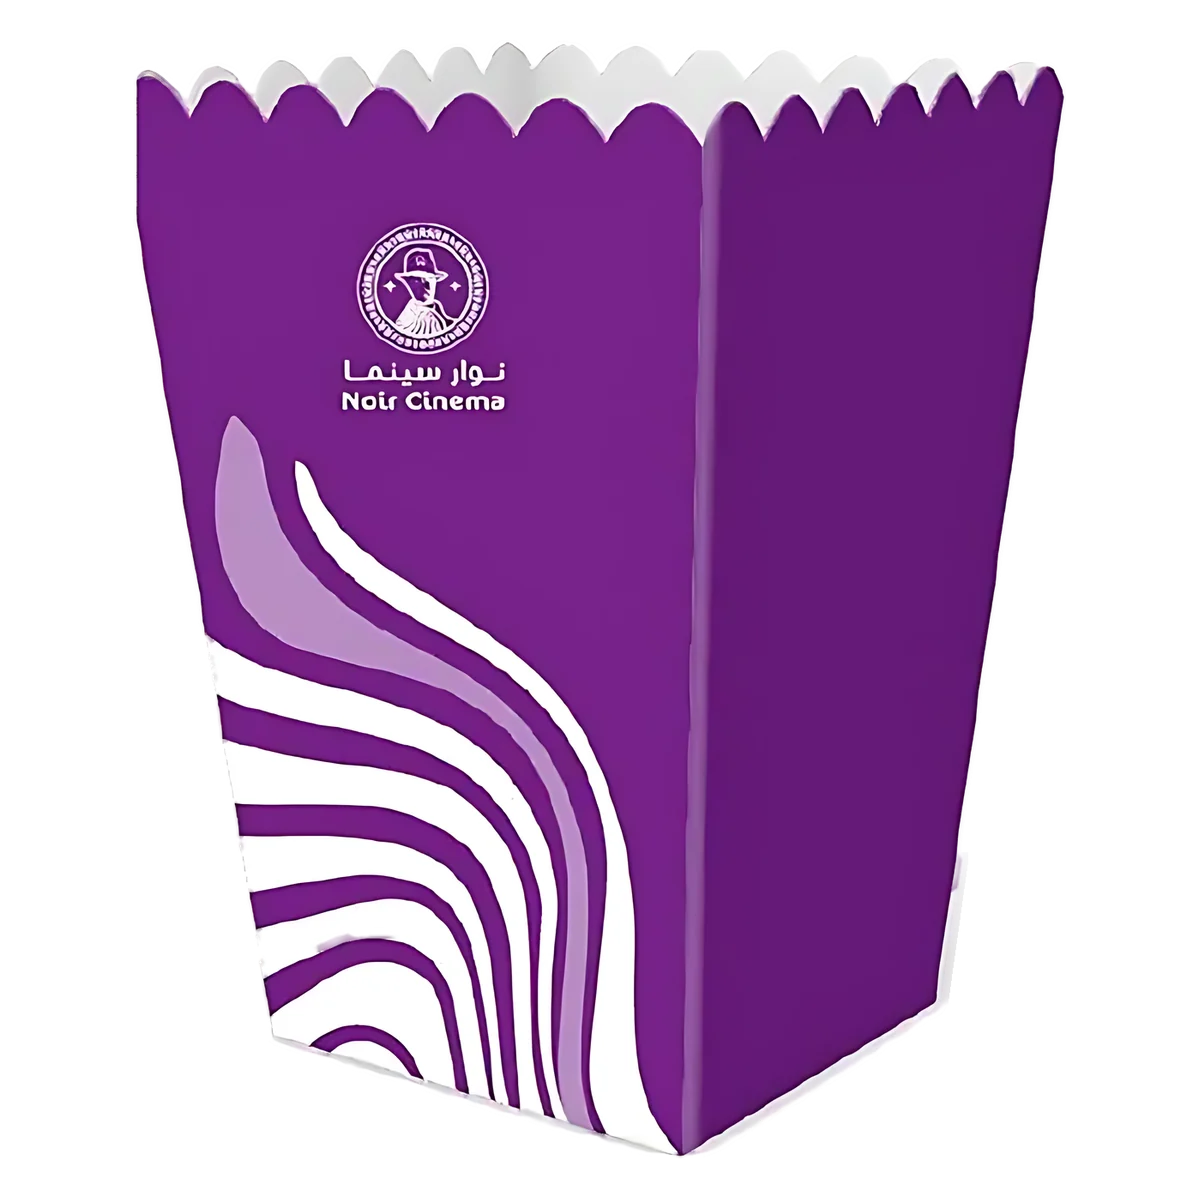
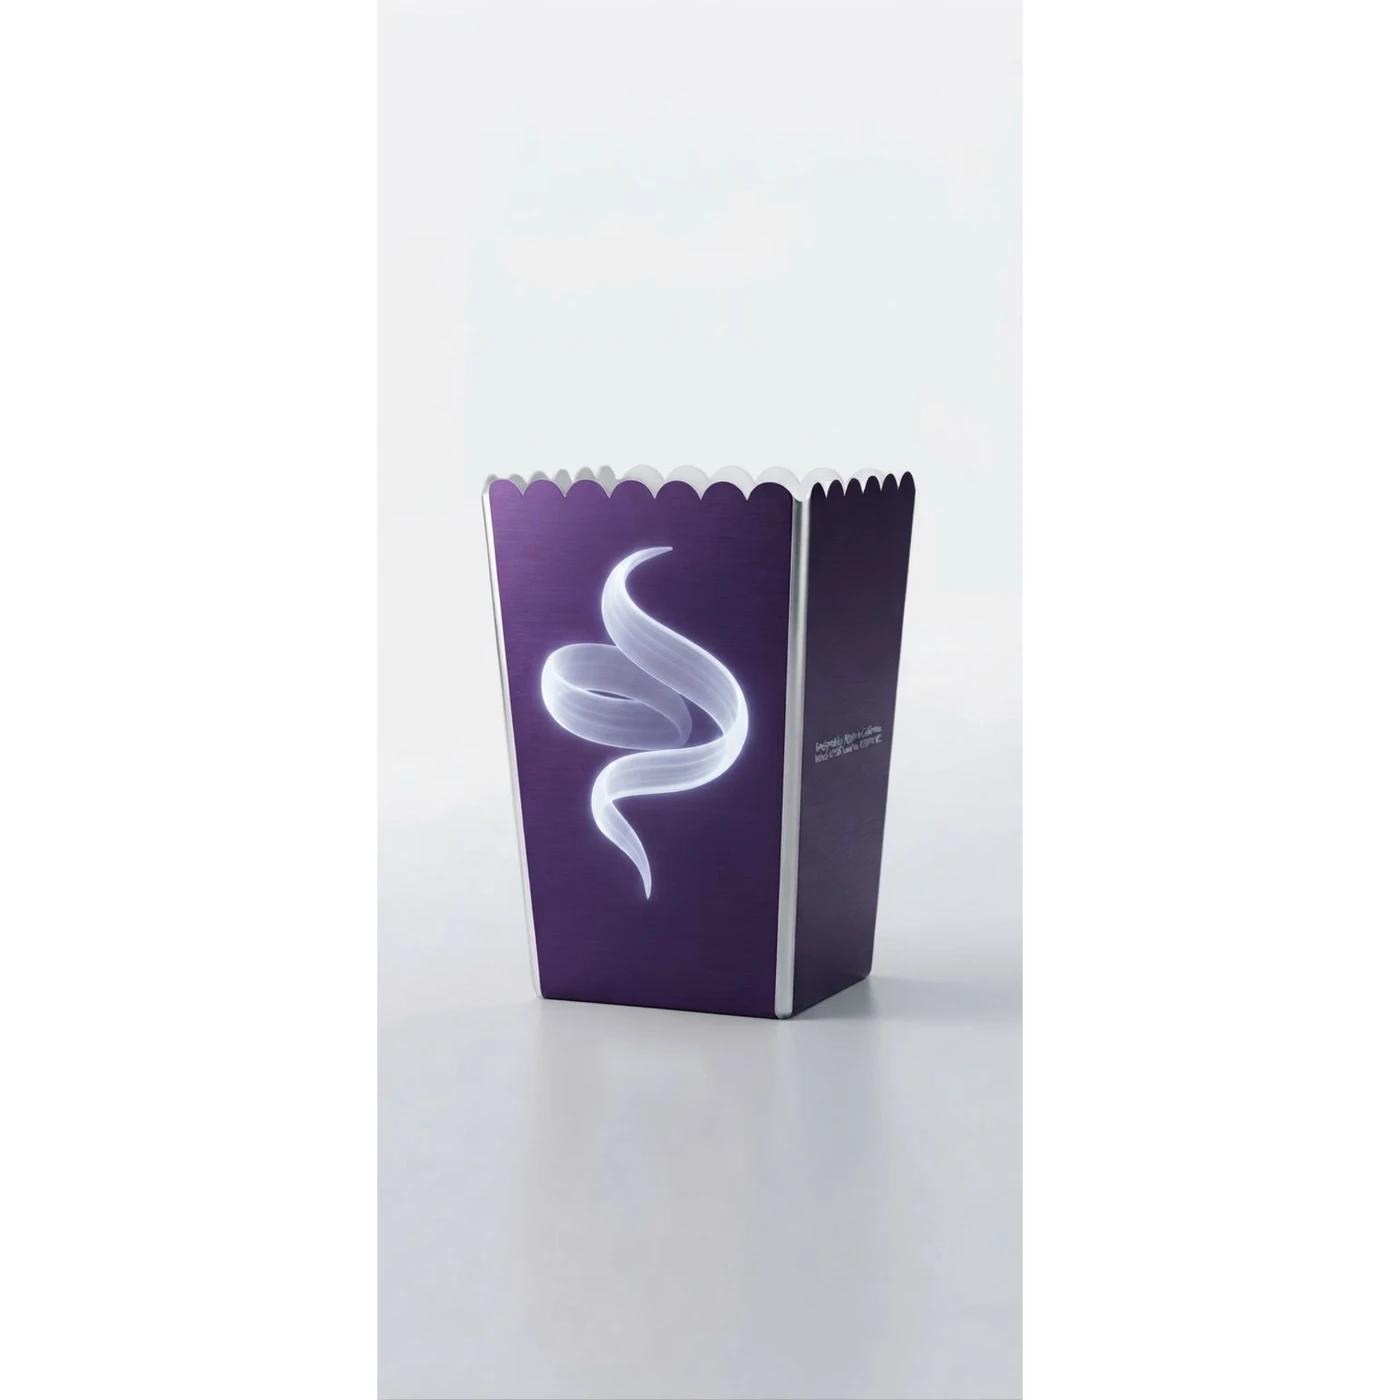
Replace popcorn tub photos with the new swirl tub.

diff --git a/ipop/index.html b/ipop/index.html
@@ -12,21 +12,21 @@
 <meta name="apple-mobile-web-app-capable" content="yes">
 <meta name="apple-mobile-web-app-title" content="iPop">
 <link rel="icon" type="image/png" href="assets/brand/ipop-64.png">
-<link rel="stylesheet" href="css/style.css?v=106">
-<link rel="stylesheet" href="css/fonts.css?v=106">
-<link rel="stylesheet" href="css/indicators.css?v=106">
-<link rel="stylesheet" href="css/scan-card.css?v=106">
-<link rel="stylesheet" href="css/scan-pass.css?v=106">
-<link rel="stylesheet" href="css/unaizah.css?v=106">
-<link rel="stylesheet" href="css/finance.css?v=106">
-<link rel="stylesheet" href="css/analyst.css?v=106">
-<link rel="stylesheet" href="css/product-card.css?v=106">
-<link rel="stylesheet" href="css/recipe-theater.css?v=106" data-rt-css>
-<link rel="stylesheet" href="css/watch.css?v=106">
-<link rel="stylesheet" href="css/loader.css?v=106">
-<link rel="stylesheet" href="css/branch-card.css?v=106">
-<link rel="stylesheet" href="css/gallery.css?v=106">
-<link rel="stylesheet" href="css/dock.css?v=106">
+<link rel="stylesheet" href="css/style.css?v=107">
+<link rel="stylesheet" href="css/fonts.css?v=107">
+<link rel="stylesheet" href="css/indicators.css?v=107">
+<link rel="stylesheet" href="css/scan-card.css?v=107">
+<link rel="stylesheet" href="css/scan-pass.css?v=107">
+<link rel="stylesheet" href="css/unaizah.css?v=107">
+<link rel="stylesheet" href="css/finance.css?v=107">
+<link rel="stylesheet" href="css/analyst.css?v=107">
+<link rel="stylesheet" href="css/product-card.css?v=107">
+<link rel="stylesheet" href="css/recipe-theater.css?v=107" data-rt-css>
+<link rel="stylesheet" href="css/watch.css?v=107">
+<link rel="stylesheet" href="css/loader.css?v=107">
+<link rel="stylesheet" href="css/branch-card.css?v=107">
+<link rel="stylesheet" href="css/gallery.css?v=107">
+<link rel="stylesheet" href="css/dock.css?v=107">
 <script defer src="vendor/jsbarcode.all.min.js?v=16"></script>
 <style>@media print { body.card-only { display: none !important; } #curtain { display: none !important; } }</style>
 <style id="curtain-css">
@@ -43,36 +43,36 @@
 @media (prefers-reduced-motion:reduce){#curtain,#curtain .hud{transition-duration:.01s}}
 </style>
 <!-- modulepreload:start (generated by .github/scripts/preload.mjs) -->
-<link rel="modulepreload" href="js/core/store.js?v=106">
-<link rel="modulepreload" href="js/core/firebase-config.js?v=106">
-<link rel="modulepreload" href="js/data/seed-data.js?v=106">
-<link rel="modulepreload" href="js/core/lock.js?v=106">
-<link rel="modulepreload" href="js/core/time-pin.js?v=106">
-<link rel="modulepreload" href="js/core/icons.js?v=106">
-<link rel="modulepreload" href="js/core/loader.js?v=106">
-<link rel="modulepreload" href="js/core/gallery-stage.js?v=106">
-<link rel="modulepreload" href="js/finance/serving.js?v=106">
-<link rel="modulepreload" href="js/data/menu-data.js?v=106">
-<link rel="modulepreload" href="js/data/recipes-data.js?v=106">
-<link rel="modulepreload" href="js/finance/costing.js?v=106">
-<link rel="modulepreload" href="js/data/price-list.js?v=106">
-<link rel="modulepreload" href="js/data/nutrition.js?v=106">
-<link rel="modulepreload" href="js/data/sales-data.js?v=106">
-<link rel="modulepreload" href="js/core/chart-theme.js?v=106">
-<link rel="modulepreload" href="js/stock/watch-count.js?v=106">
-<link rel="modulepreload" href="js/data/expiry-data.js?v=106">
-<link rel="modulepreload" href="js/data/expiry-edits.js?v=106">
-<link rel="modulepreload" href="js/stock/product-card.js?v=106">
-<link rel="modulepreload" href="js/core/likes.js?v=106">
-<link rel="modulepreload" href="js/stock/stock-card.js?v=106">
-<link rel="modulepreload" href="js/data/barcodes.js?v=106">
-<link rel="modulepreload" href="js/stock/scan-view.js?v=106">
-<link rel="modulepreload" href="js/stock/watch.js?v=106">
-<link rel="modulepreload" href="js/stock/recipe-names.js?v=106">
-<link rel="modulepreload" href="js/stock/consumption.js?v=106">
-<link rel="modulepreload" href="js/stock/stock-alerts.js?v=106">
-<link rel="modulepreload" href="js/stock/fefo-place.js?v=106">
-<link rel="modulepreload" href="js/core/clock.js?v=106">
+<link rel="modulepreload" href="js/core/store.js?v=107">
+<link rel="modulepreload" href="js/core/firebase-config.js?v=107">
+<link rel="modulepreload" href="js/data/seed-data.js?v=107">
+<link rel="modulepreload" href="js/core/lock.js?v=107">
+<link rel="modulepreload" href="js/core/time-pin.js?v=107">
+<link rel="modulepreload" href="js/core/icons.js?v=107">
+<link rel="modulepreload" href="js/core/loader.js?v=107">
+<link rel="modulepreload" href="js/core/gallery-stage.js?v=107">
+<link rel="modulepreload" href="js/finance/serving.js?v=107">
+<link rel="modulepreload" href="js/data/menu-data.js?v=107">
+<link rel="modulepreload" href="js/data/recipes-data.js?v=107">
+<link rel="modulepreload" href="js/finance/costing.js?v=107">
+<link rel="modulepreload" href="js/data/price-list.js?v=107">
+<link rel="modulepreload" href="js/data/nutrition.js?v=107">
+<link rel="modulepreload" href="js/data/sales-data.js?v=107">
+<link rel="modulepreload" href="js/core/chart-theme.js?v=107">
+<link rel="modulepreload" href="js/stock/watch-count.js?v=107">
+<link rel="modulepreload" href="js/data/expiry-data.js?v=107">
+<link rel="modulepreload" href="js/data/expiry-edits.js?v=107">
+<link rel="modulepreload" href="js/stock/product-card.js?v=107">
+<link rel="modulepreload" href="js/core/likes.js?v=107">
+<link rel="modulepreload" href="js/stock/stock-card.js?v=107">
+<link rel="modulepreload" href="js/data/barcodes.js?v=107">
+<link rel="modulepreload" href="js/stock/scan-view.js?v=107">
+<link rel="modulepreload" href="js/stock/watch.js?v=107">
+<link rel="modulepreload" href="js/stock/recipe-names.js?v=107">
+<link rel="modulepreload" href="js/stock/consumption.js?v=107">
+<link rel="modulepreload" href="js/stock/stock-alerts.js?v=107">
+<link rel="modulepreload" href="js/stock/fefo-place.js?v=107">
+<link rel="modulepreload" href="js/core/clock.js?v=107">
 <!-- modulepreload:end -->
 </head>
 <body>
@@ -145,6 +145,6 @@ try {
 <div id="modal-root"></div>
 <div class="toasts" id="toasts" role="status"></div>
 
-<script type="module" src="js/app.js?v=106"></script>
+<script type="module" src="js/app.js?v=107"></script>
 </body>
 </html>

diff --git a/ipop/sw.js b/ipop/sw.js
@@ -3,8 +3,8 @@
    - Pages and JSON: network first, cache as fallback.
    - Versioned CDN files (Firebase SDK, fonts): cache first.
    - Firestore / auth traffic is never touched, so live sync is not slowed or broken. */
-const CACHE = "ipop-v106";
-const CORE = ["./", "./index.html", "./css/style.css?v=106", "./css/fonts.css?v=106", "./css/indicators.css?v=106", "./css/scan-card.css?v=106", "./css/scan-pass.css?v=106", "./css/unaizah.css?v=106", "./css/finance.css?v=106", "./css/analyst.css?v=106", "./css/product-card.css?v=106", "./css/recipe-theater.css?v=106", "./css/watch.css?v=106", "./css/loader.css?v=106", "./css/branch-card.css?v=106", "./css/gallery.css?v=106", "./css/dock.css?v=106", "./assets/brand/ipop-hero.webp", "./vendor/fonts/Inter-Variable.woff2"];
+const CACHE = "ipop-v107";
+const CORE = ["./", "./index.html", "./css/style.css?v=107", "./css/fonts.css?v=107", "./css/indicators.css?v=107", "./css/scan-card.css?v=107", "./css/scan-pass.css?v=107", "./css/unaizah.css?v=107", "./css/finance.css?v=107", "./css/analyst.css?v=107", "./css/product-card.css?v=107", "./css/recipe-theater.css?v=107", "./css/watch.css?v=107", "./css/loader.css?v=107", "./css/branch-card.css?v=107", "./css/gallery.css?v=107", "./css/dock.css?v=107", "./assets/brand/ipop-hero.webp", "./vendor/fonts/Inter-Variable.woff2"];
 const CDN = /^https:\/\/(www\.gstatic\.com\/firebasejs\/|cdn\.jsdelivr\.net\/(gh|npm)\/)/;
 
 self.addEventListener("install", e => {

diff --git a/ipop/js/app.js b/ipop/js/app.js
@@ -72,7 +72,7 @@ const CARD_DOOR = !!window.CARD_DOOR;
 const isScanUrl = () => !!new URLSearchParams(location.search).get("p") || location.hash.startsWith("#p/");
 
 // bump with each release so browsers fetch fresh photos instead of cached ones
-const ASSET_V = "46";
+const ASSET_V = "107";
 
 // ── Helpers ──────────────────────────────────────────────────
 const $ = (s, r = document) => r.querySelector(s);
